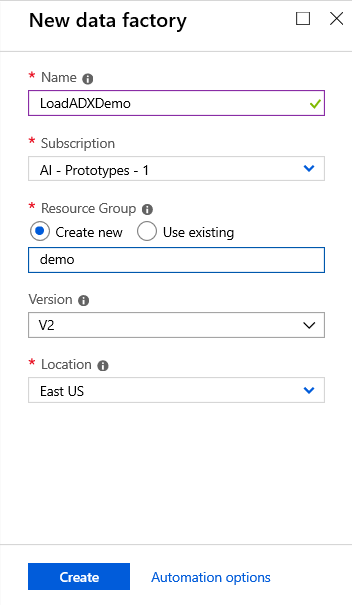
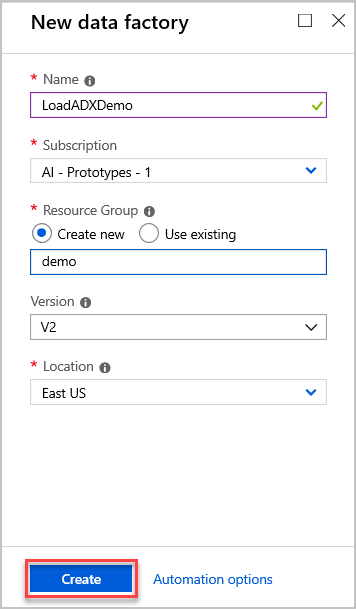
updates

diff --git a/data-explorer/data-factory-load-data.md b/data-explorer/data-factory-load-data.md
@@ -4,7 +4,7 @@ description: 'In this topic, you learn to ingest (load) data into Azure Data Exp
 services: data-explorer
 author: orspod
 ms.author: orspodek
-ms.reviewer: 
+ms.reviewer: jasonh
 ms.service: data-explorer
 ms.topic: conceptual
 ms.date: 03/31/2019
@@ -14,9 +14,7 @@ ms.date: 03/31/2019
 
 # Load data into Azure Data Explorer by using Azure Data Factory
 
-Azure Data Explorer is a fast, fully managed data analytics service for real-time analysis on large volumes of data streaming from many sources such as applications, websites, and IoT devices. Iteratively explore data and identify patterns and anomalies to improve products, enhance customer experiences, monitor devices, and boost operations. Explore new questions and get answers in minutes.
-
-Azure Data Factory is a fully managed cloud-based data integration service. You can use the service to populate your Azure Data Explorer database with data from your existing system and save time when building your analytics solutions.
+Azure Data Explorer is a fast, fully managed data analytics service for real-time analysis on large volumes of data streaming from many sources such as applications, websites, and IoT devices. Iteratively explore data and identify patterns and anomalies to improve products, enhance customer experiences, monitor devices, and boost operations. Explore new questions and get answers in minutes. Azure Data Factory is a fully managed cloud-based data integration service. You can use the service to populate your Azure Data Explorer database with data from your existing system and save time when building your analytics solutions.
 
 Azure Data Factory offers the following benefits for loading data into Azure Data Explorer:
 
@@ -39,22 +37,24 @@ This article shows you how to use the Data Factory Copy Data tool to load data f
 
    ![Create a new data factory](media/data-factory-load-data/select-adf.png)
 
-1. In the **New data factory** pane, provide values for following fields:
+1. In the **New data factory** pane:
 
-   ![New data factory page](media/data-factory-load-data/new-data-factory.png)
+    ![New data factory page](media/data-factory-load-data/new-data-factory.png)
 
-    * **Name**: Enter a globally unique name for your data factory. If you receive the error *"Data factory name \"LoadADXDemo\" is not available"*, enter a different name for the data factory. For naming rules of Data Factory artifacts, see [Data Factory naming rules](/azure/data-factory/naming-rules).
-    * **Subscription**: Select your Azure subscription in which to create the data factory.
-    * **Resource Group**:
-        * Select **Create new** and enter the name of a resource group. Or:
-        * Select **Use existing** and select an existing resource group from the drop-down list.
-        To learn about resource groups, see [Using resource groups to manage your Azure resources](/azure-resource-manager/resource-group-overview.md).  
-    * **Version**: Select **V2**.
-    * **Location**: Select the location for the data factory. Only supported locations are displayed in the drop-down list. The data stores that are used by data factory can be in other locations or regions.
+    1. Provide values for following fields:
+    
+        * **Name**: Enter a globally unique name for your data factory. If you receive the error *"Data factory name \"LoadADXDemo\" is not available"*, enter a different name for the data factory. For naming rules of Data Factory artifacts, see [Data Factory naming rules](/azure/data-factory/naming-rules).
+        * **Subscription**: Select your Azure subscription in which to create the data factory.
+        * **Resource Group**:
+            * Select **Create new** and enter the name of a resource group. Or:
+            * Select **Use existing** and select an existing resource group from the drop-down list.
+            To learn about resource groups, see [Using resource groups to manage your Azure resources](/azure-resource-manager/resource-group-overview.md).  
+        * **Version**: Select **V2**.
+        * **Location**: Select the location for the data factory. Only supported locations are displayed in the drop-down list. The data stores that are used by data factory can be in other locations or regions.
+    
+    1. Select **Create**.
 
-1. Select **Create**.
-
-1. After creation is complete, go to your data factory. You see the **Data Factory** home page as shown in the following image:
+1. After creation is complete, go to the data factory you created. You see the **Data Factory** home page as shown in the following image:
 
    ![Data factory home page](media/data-factory-load-data/data-factory-home-page.png)
 
